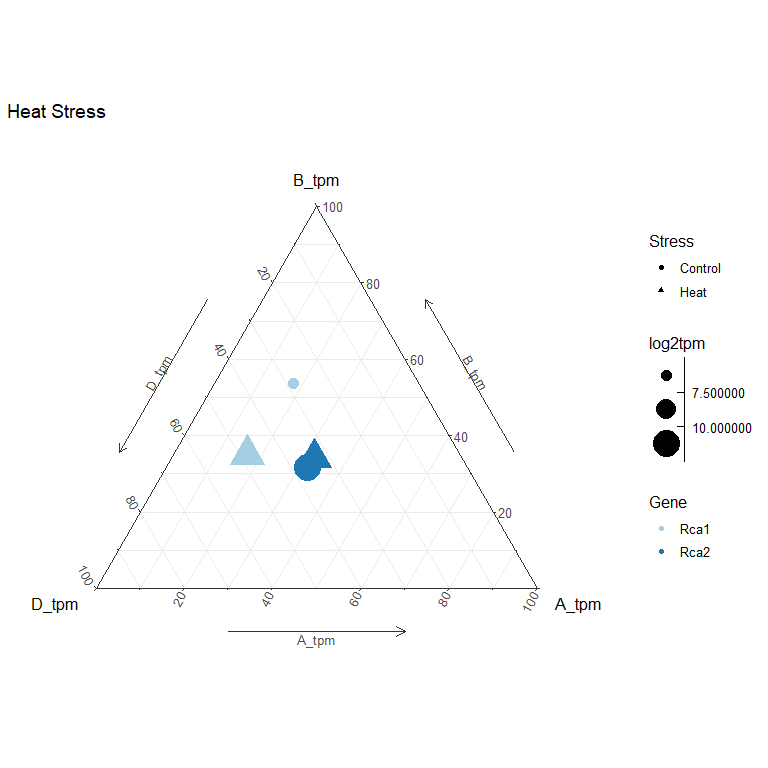
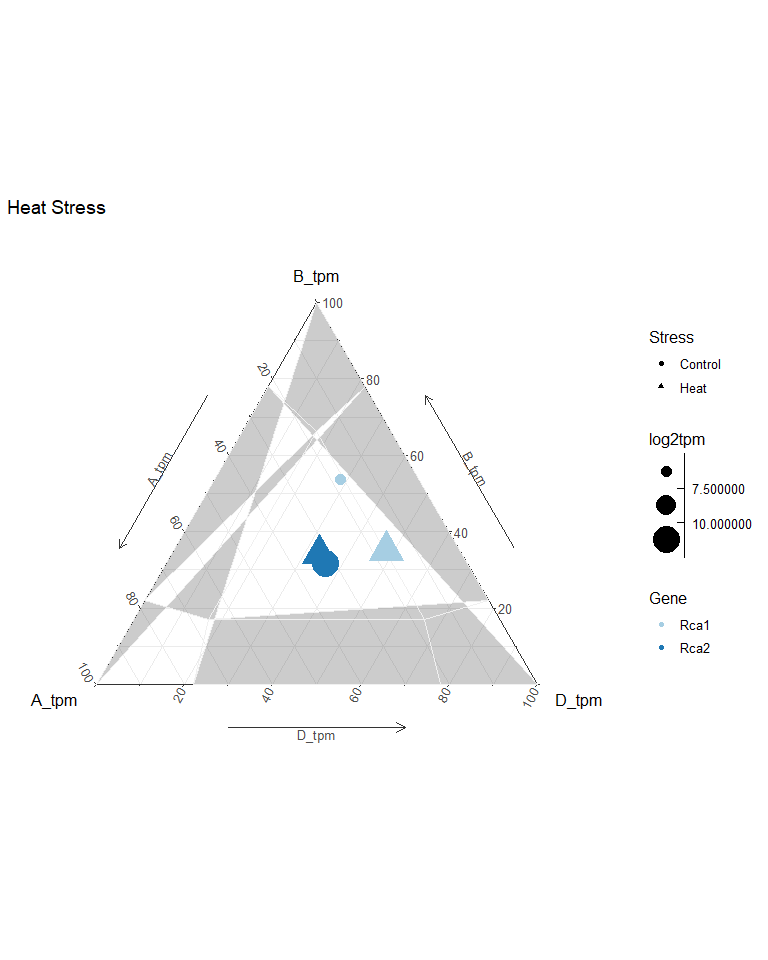
Coloured Regions according to relative balance categories

diff --git a/Wheat-Rubiscosome-Expression-Balance-Report.md b/Wheat-Rubiscosome-Expression-Balance-Report.md
@@ -14,9 +14,7 @@ Wheat Rubiscosome Expression Balance Report
     -   [Spike Data Summary](#spike-data-summary)
     -   [Heat Stress Summary](#heat-stress-summary)
 -   [Data Vizualisation](#data-vizualisation)
-    -   [Leaves and Shoots](#leaves-and-shoots)
-    -   [Spike](#spike)
-    -   [Heat Stress](#heat-stress)
+    -   [Base](#base)
 
 # Data Import
 
@@ -268,86 +266,141 @@ Rubiscosome_mean_heat_control <- full_join(Rubiscosome_mean_heat, Rubiscosome_me
 
 # Data Vizualisation
 
-### Leaves and Shoots
+### Base
 
 ``` r
-Rubiscosome_Leaf <- ggtern(Rubiscosome_mean_leaf, aes(D_tpm, B_tpm, A_tpm)) + 
-  geom_mask() +
-  geom_point(aes(color = Gene,
-                 size = log2tpm)) +
+#Build a library of points, left to right, top to bottom...
+points <- data.frame(
+  rbind(c( 1,1.000,0.000,0.000),
+        c( 2,0.780,0.220,0.000),
+        c( 3,0.660,0.170,0.170),
+        c( 4,0.780,0.000,0.220),
+        c( 5,0.220,0.780,0.000),
+        c( 6,0.220,0.000,0.780),
+        c( 7,0.170,0.670,0.170),
+        c( 8,0.170,0.170,0.660),
+        c( 9,0.000,1.000,0.000),
+        c(10,0.000,0.780,0.220),
+        c(11,0.000,0.220,0.780),
+        c(12,0.000,0.000,1.000),
+        c(13,0.660,0.170,0.170),
+        c(14,0.170,0.170,0.660),
+        c(15,0.220,0.000,0.780),
+        c(16,0.780,0.000,0.220),
+        c(17,0.660,0.170,0.170),
+        c(18,0.170,0.670,0.170),
+        c(19,0.220,0.780,0.000),
+        c(20,0.780,0.220,0.000),
+        c(21,0.170,0.670,0.170),
+        c(22,0.170,0.170,0.660),
+        c(23,0.000,0.220,0.780),
+        c(24,0.000,0.780,0.220)
+  )
+)
+colnames(points) = c("IDPoint","A_tpm","B_tpm","D_tpm")
+
+base <- ggtern(data=points,aes(A_tpm,B_tpm,D_tpm)) +
+  theme_bw() + theme_hidetitles() + theme_hidearrows() +
+  geom_point(shape=21,size=10,color="blue",fill="white") +
+  geom_text(aes(label=IDPoint),color="blue")
+
+
+
+
+
+#Give each Polygon a number
+polygon.labels <- data.frame(
+  Label=c("B dominant","",
+          " Balanced",
+          "E",
+          "F",
+          "G",
+          "H",
+          "I",
+          "A dominant",
+          "K",
+          "L",
+          "D dominant",
+          "A suppressed",
+          "O",
+          "P",
+          "Q",
+          "D suppressed",
+          "S",
+          "T",
+          "U",
+          "B suppressed",
+          "W",
+          "X",
+          "Y",
+          "Z",
+          "C"))
+#Assign each label an index
+polygon.labels$IDLabel=1:nrow(polygon.labels)
+
+
+
+
+
+#Create a map of polygons to points
+polygons <- data.frame(
+  rbind(c(1,1),c(1,2),c(1,3),c(1,4),
+        c(9,9),c(9,10),c(9,7),c(9,5),
+        c(12,12),c(12,6),c(12,8),c(12,11),
+        c(3,3),c(3,7),c(3,8),
+        c(13,13),c(13,14),c(13,15),c(13,16),
+        c(17,17),c(17,18),c(17,19),c(17,20),
+        c(21,21),c(21,22),c(21,23),c(21,24)
+  )
+)
+#IMPORTANT FOR CORRECT ORDERING.
+polygons$PointOrder <- 1:nrow(polygons)
+
+#Rename the columns
+colnames(polygons) = c("IDLabel","IDPoint","PointOrder")
+
+
+#Merge the three sets together to create a master set.
+df <- merge(polygons,points)
+df <- merge(df,polygon.labels)
+df <- df[order(df$PointOrder),]
+
+
+
+#Build the final plot
+base <- ggtern(data=df,aes(A_tpm,B_tpm,D_tpm)) +
+  geom_polygon(aes(fill=Label,group=Label),color="black",alpha=0.25) +
+  theme_bw() +
+  custom_percent("Percent") +
+  labs(title="Shepard Sediment Classification Diagram",
+       fill = "Classification")
+base
+```
+
+![](Wheat-Rubiscosome-Expression-Balance-Report_files/figure-gfm/unnamed-chunk-9-1.png)<!-- -->
+
+``` r
+base2 <- ggtern(data=df,aes(A_tpm,B_tpm,D_tpm)) +
+  geom_polygon(aes(fill=Label,group=Label),color="black",alpha=0.25) +
+  geom_point(data=Rubiscosome_mean_leaf,
+             aes(A_tpm,B_tpm,D_tpm, 
+                 color=Gene,
+                 size=log2tpm,
+                 alpha=0.8)) + 
   scale_size_binned(range = c(1, 10),
                     breaks = c(7.5, 10, 12.5)) +
   scale_color_manual(values=c("#a6cee3", "#1f78b4", "#b2df8a", "#33a02c",
                               "#fb9a99", "#e31a1c", "#fdbf6f", "#ff7f00",
                               "#cab2d6", "#6a3d9a", "#b15928" )) +
-  theme_bw()  +
-  theme_showarrows() + 
-  ggtitle('Leaves and Shoots')
-
-Rubiscosome_Leaf
+  theme_bw() +
+  labs(title="Leaves and Shoots",
+       fill = "Classification")
 ```
 
-![](Wheat-Rubiscosome-Expression-Balance-Report_files/figure-gfm/Rubiscosome_Leaf_Fig-1.png)<!-- -->
-
-### Spike
+    ## Warning: Ignoring unknown aesthetics: z
 
 ``` r
-Rubiscosome_Spike <- ggtern(Rubiscosome_mean_spike, aes(D_tpm, B_tpm, A_tpm)) + 
-  geom_mask() +
-  geom_point(aes(color = Gene,
-                 size = log2tpm)) +
-    scale_size_binned(range = c(1, 10),
-                      breaks = c(7.5, 10, 12.5)) +
-  scale_color_manual(values=c("#a6cee3", "#1f78b4", "#b2df8a", "#33a02c",
-                              "#fb9a99", "#e31a1c", "#fdbf6f", "#ff7f00",
-                              "#cab2d6", "#6a3d9a", "#b15928" )) +
-  theme_bw()  +
-  theme_showarrows() + 
-  ggtitle('Spike')
-
-Rubiscosome_Spike
+base2
 ```
 
-![](Wheat-Rubiscosome-Expression-Balance-Report_files/figure-gfm/Spike_Leaf_Fig-1.png)<!-- -->
-
-### Heat Stress
-
-``` r
-Rubiscosome_Heat_Stress <- ggtern(Rubiscosome_mean_heat_control, aes(D_tpm, B_tpm, A_tpm)) + 
-  geom_mask() +
-  geom_point(aes(color = Gene,
-                 size = log2tpm,
-                 shape = Stress)) +
-    scale_size_binned(range = c(1, 10),
-                      breaks = c(7.5, 10, 12.5)) +
-  scale_color_manual(values=c("#a6cee3", "#1f78b4", "#b2df8a", "#33a02c",
-                              "#fb9a99", "#e31a1c", "#fdbf6f", "#ff7f00",
-                              "#cab2d6", "#6a3d9a", "#b15928" )) +
-  theme_bw()  +
-  theme_showarrows() + 
-  ggtitle('Heat Stress')
-
-Rubiscosome_Heat_Stress
-```
-
-![](Wheat-Rubiscosome-Expression-Balance-Report_files/figure-gfm/Heat_Stress_Fig-1.png)<!-- -->
-
-``` r
-Rubiscosome_Heat_Stress_Rca <- ggtern(filter(Rubiscosome_mean_heat_control, Gene %in% c("Rca1", "Rca2") ), aes(D_tpm, B_tpm, A_tpm)) + 
-  geom_mask() +
-  geom_point(aes(color = Gene,
-                 size = log2tpm,
-                 shape = Stress)) +
-    scale_size_binned(range = c(1, 10),
-                      breaks = c(7.5, 10, 12.5)) +
-  scale_color_manual(values=c("#a6cee3", "#1f78b4", "#b2df8a", "#33a02c",
-                              "#fb9a99", "#e31a1c", "#fdbf6f", "#ff7f00",
-                              "#cab2d6", "#6a3d9a", "#b15928" )) +
-  theme_bw()  +
-  theme_showarrows() + 
-  ggtitle('Heat Stress')
-
-Rubiscosome_Heat_Stress_Rca
-```
-
-![](Wheat-Rubiscosome-Expression-Balance-Report_files/figure-gfm/Heat_Stress_Rca_Fig-1.png)<!-- -->
+![](Wheat-Rubiscosome-Expression-Balance-Report_files/figure-gfm/unnamed-chunk-10-1.png)<!-- -->
